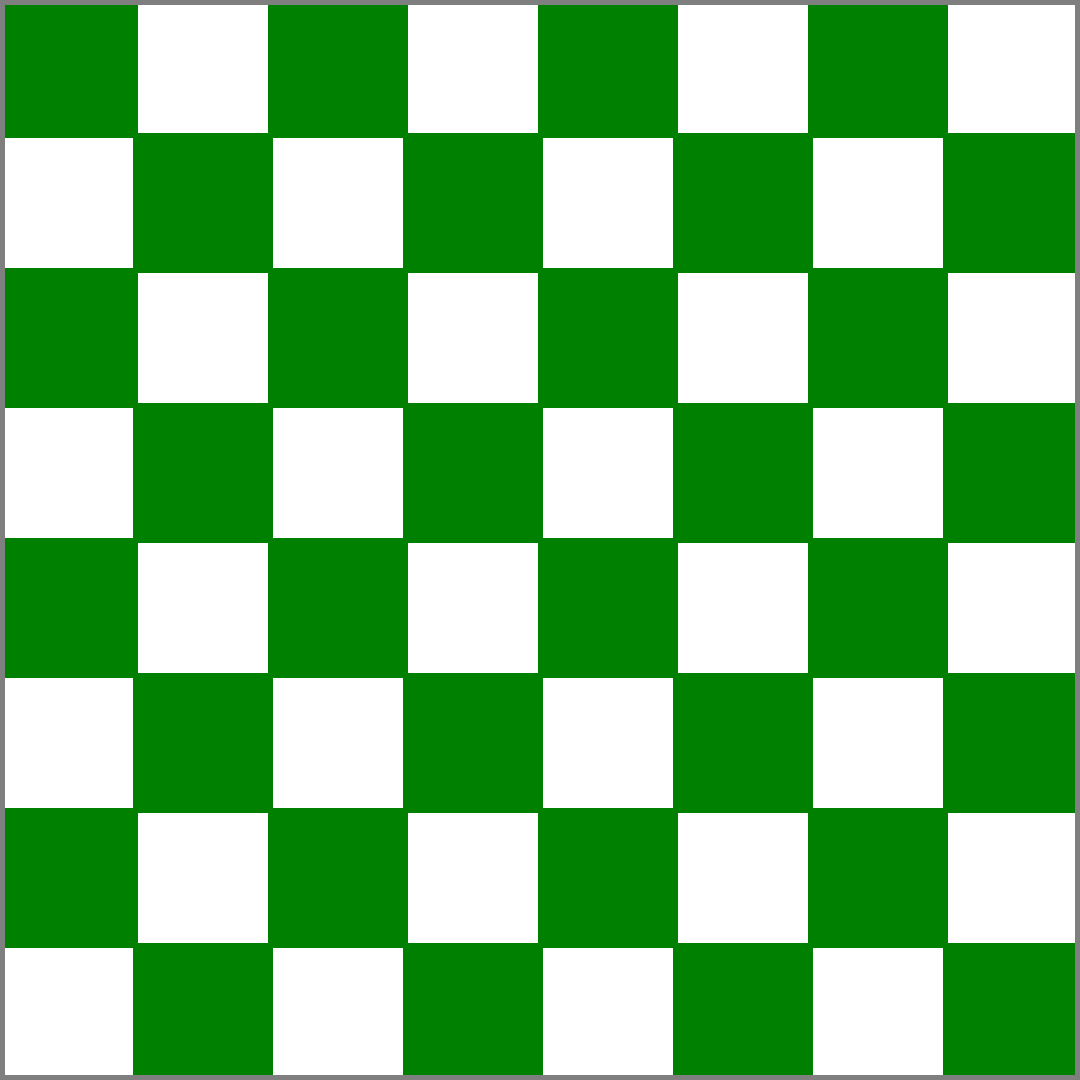
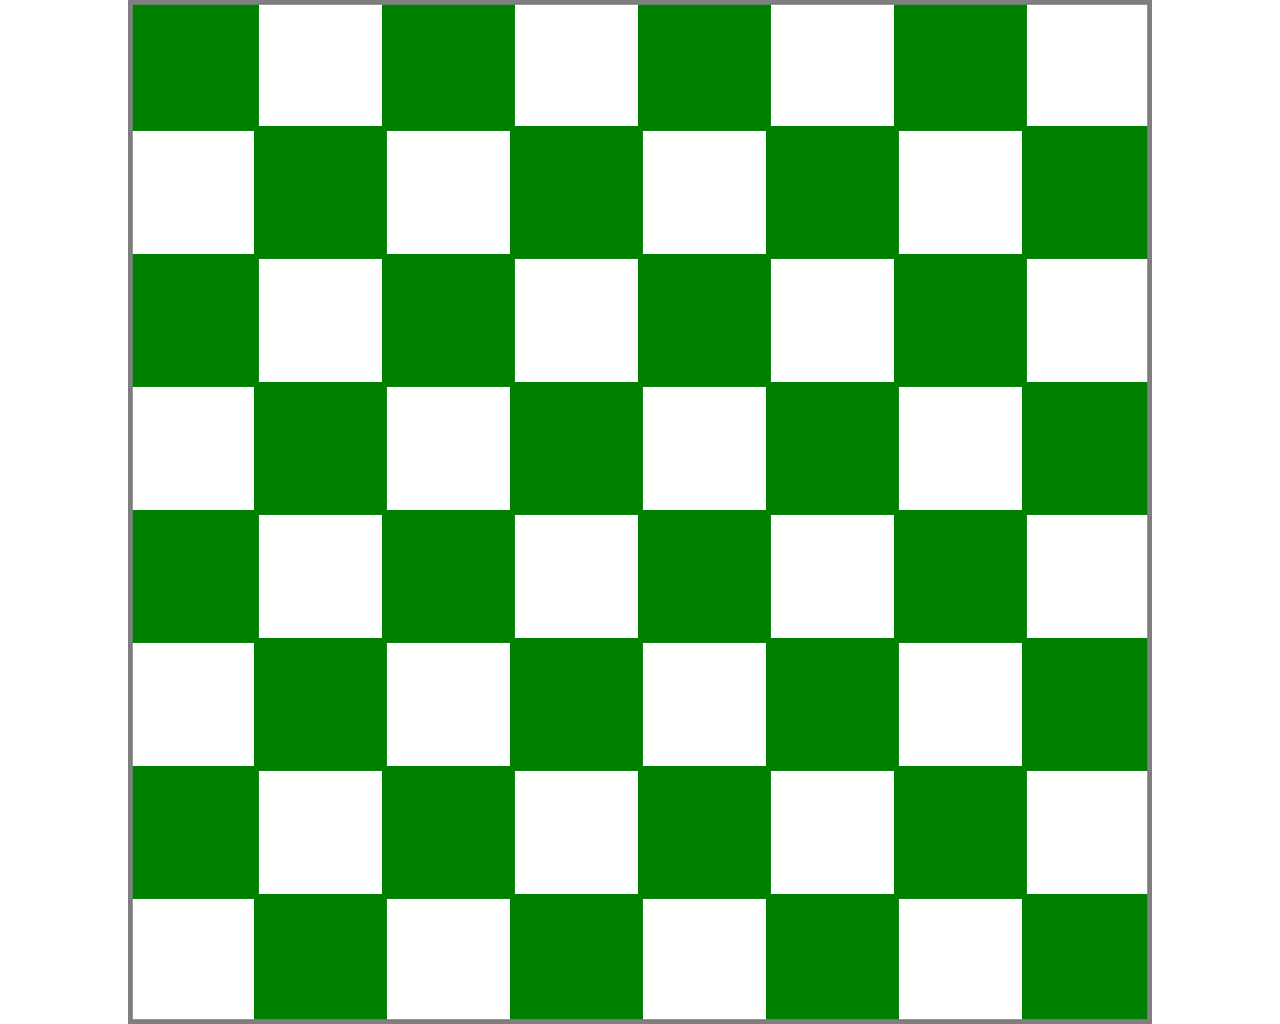
Fixed Checkers, Chess, and Battleship from looking like MS Paint

diff --git a/src/Board.java b/src/Board.java
@@ -30,6 +30,7 @@ public class Board {
         // Find the board image
         try {
             this.boardDisplay = createImageIcon(type+".png", type);
+            System.out.println(boardDisplay.getDescription());
         } catch (Exception e) {
             System.out.print("Error finding image");
         }
@@ -57,7 +58,7 @@ public class Board {
                     JFrame pauseMenu = new JFrame();
                     pauseMenu.setLayout(new GridBagLayout());
                     pauseMenu.setSize(400, 600);
-                    pauseMenu.setLocation(760, 240);
+                    pauseMenu.setLocation(440, 240);
                     GridBagConstraints gbc = new GridBagConstraints();
                     gbc.gridwidth = GridBagConstraints.REMAINDER;
                     gbc.ipady = 1;
@@ -135,8 +136,8 @@ public class Board {
             disp.setExtendedState(JFrame.MAXIMIZED_BOTH);
             disp.setUndecorated(true);
 
-            gameWindow.setPreferredSize(new Dimension(1080, 1080));
-            gameWindow.setBorder(new EmptyBorder(0, 100, 0, 100));
+            gameWindow.setPreferredSize(new Dimension(1280, 1024));
+            gameWindow.setBorder(new EmptyBorder(0, 128, 0, 128));
 
             disp.add(gameWindow);
             disp.setVisible(true);
@@ -158,7 +159,7 @@ public class Board {
     }
 
     private void settlersDisp () {
-        disp.setSize(1280, 3072);
+        disp.setSize(1280, 1024);
         disp.setExtendedState(JFrame.MAXIMIZED_BOTH);
         disp.setUndecorated(true);
 
@@ -186,9 +187,13 @@ public class Board {
         player2View.setPreferredSize(new Dimension(1280, 1024));
         player2View.setBorder(new EmptyBorder(0, 100, 0, 100));
         gameWindow.setPreferredSize(new Dimension(1280, 1024));
-        gameWindow.setBorder(new EmptyBorder(0, 100, 0, 0));
 
+//        disp.add(player1View);
+//        disp.add(thyHolyButtonHolder1);
         disp.add(gameWindow);
+//        disp.add(thyHolyButtonHolder2);
+//        disp.add(player2View);
+
         disp.setVisible(true);
     }
 
@@ -233,13 +238,15 @@ class BoardPanel extends JPanel {
 
     protected void paintComponent(Graphics g) {
         Graphics2D graphic = (Graphics2D) g;
-        graphic.clearRect(420, 0, 1080, 1080);
+
 
         if (board != null) {
-            if (board.getDescription().equals("settlers")) {
+            if (board.getDescription().contains("settlers")) {
+                graphic.clearRect(0, 0, 1080, 1080);
                 graphic.drawImage(board.getImage(), 0, 0, 1280, 1024, this);
             } else {
-                graphic.drawImage(board.getImage(), 420, 0, 1080, 1080, this);
+                graphic.clearRect(0, 0, 1024, 1024);
+                graphic.drawImage(board.getImage(), 0, 0, 1280, 1024, this);
             }
         }
     }
